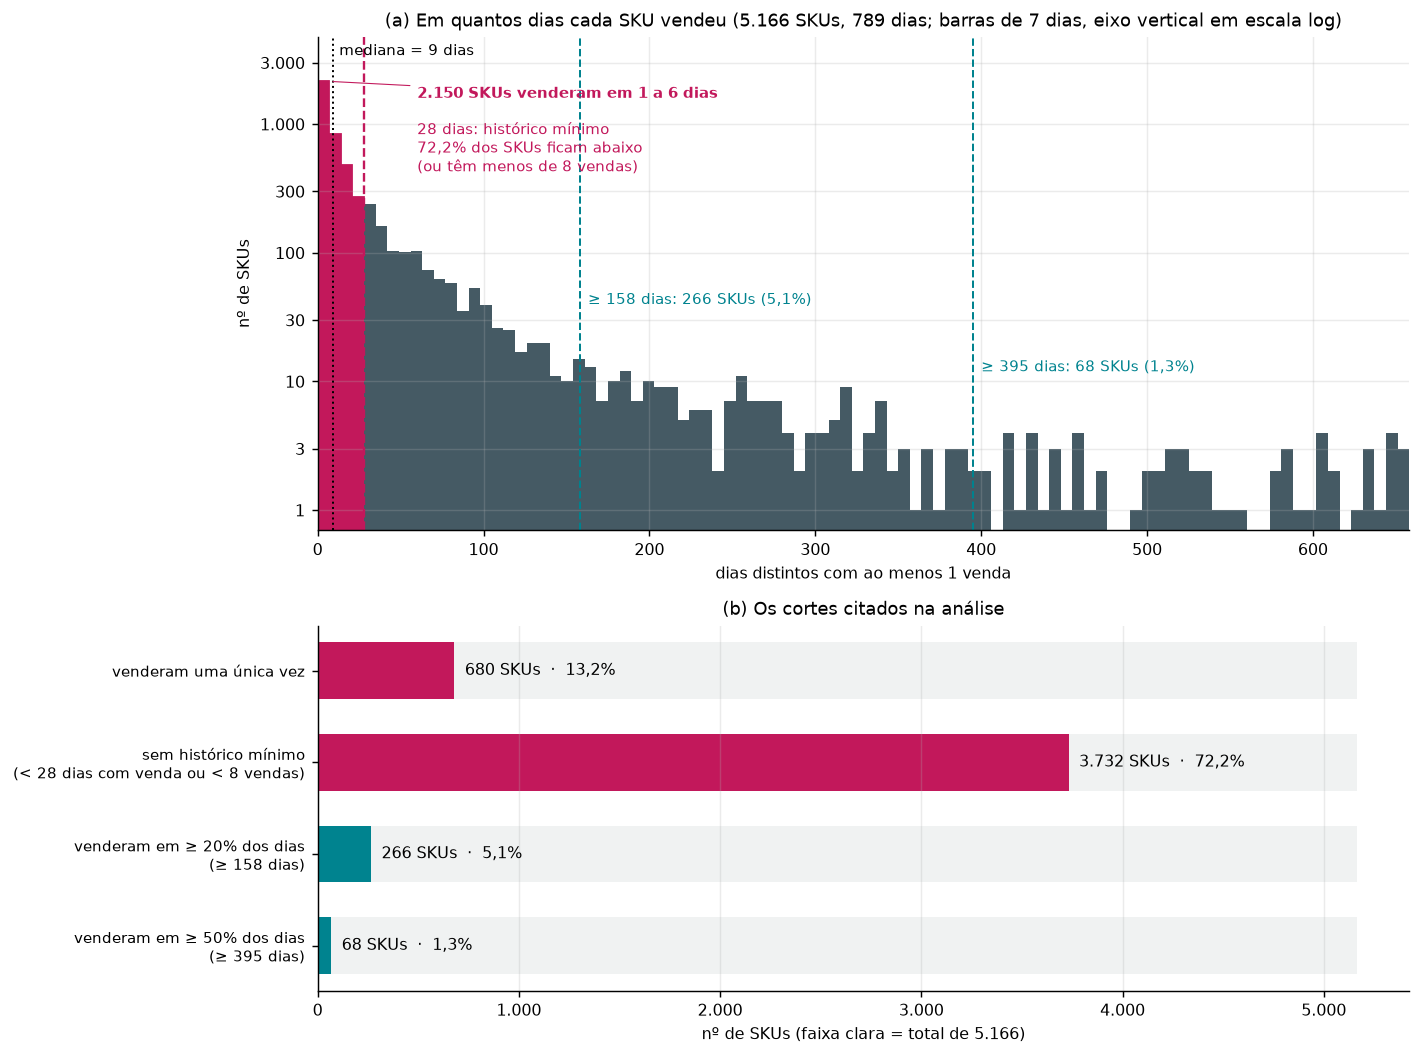
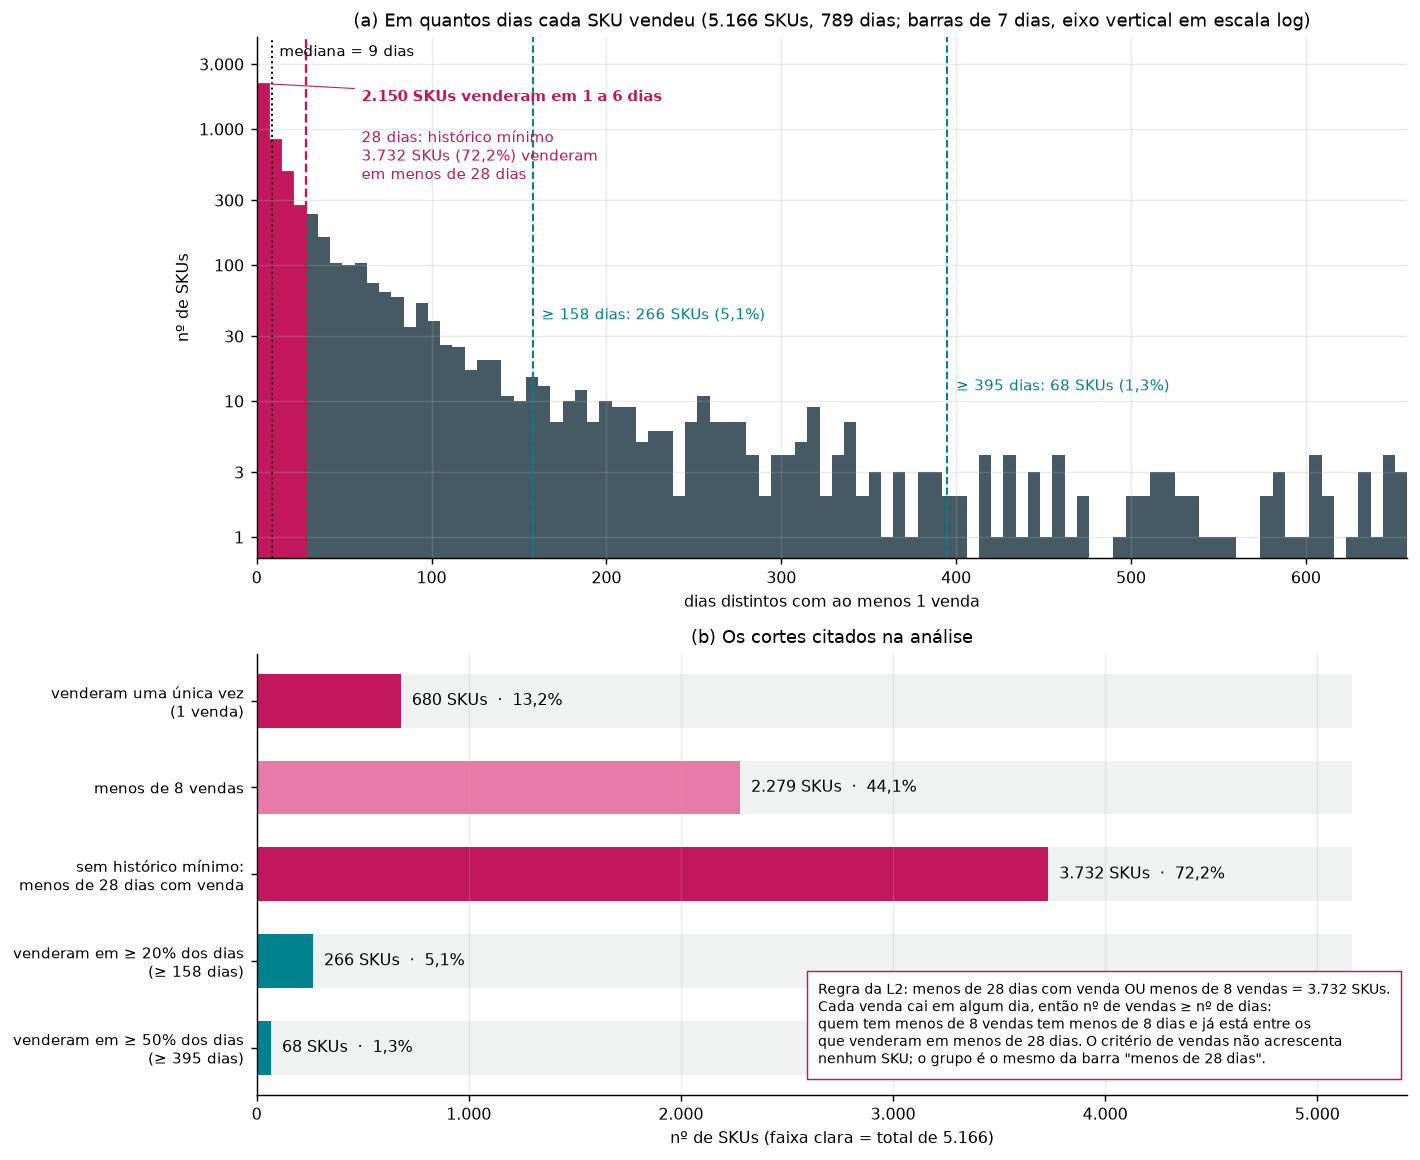
fix: plots dos skus EDA

diff --git a/ia-predictor/training_scripts/eda/eda_source.py b/ia-predictor/training_scripts/eda/eda_source.py
@@ -267,15 +267,21 @@ def _grafico_esparsidade(df: pd.DataFrame, plt) -> str:
     span = (df["data"].max() - df["data"].min()).days + 1
     mediana = float(dias.median())
     d20, d50 = int(np.ceil(.2 * span)), int(np.ceil(.5 * span))
+    # Regra da L2: < 28 dias com venda OU < 8 vendas. Como nº de vendas ≥ nº de dias, quem tem
+    # < 8 vendas já tem < 8 dias; o grupo é o mesmo de "< 28 dias". O painel (a) mostra só
+    # dias; o critério de vendas fica no painel (b), com a explicação.
+    sem_hist = int(((dias < 28) | (n_vendas < 8)).sum())
+    assert sem_hist == int((dias < 28).sum())
     cortes = [
-        ("venderam uma única vez", int((n_vendas == 1).sum())),
-        ("sem histórico mínimo\n(< 28 dias com venda ou < 8 vendas)", int(((dias < 28) | (n_vendas < 8)).sum())),
-        (f"venderam em ≥ 20% dos dias\n(≥ {d20} dias)", int((dias >= d20).sum())),
-        (f"venderam em ≥ 50% dos dias\n(≥ {d50} dias)", int((dias >= d50).sum())),
+        ("venderam uma única vez\n(1 venda)", int((n_vendas == 1).sum()), "#C2185B"),
+        ("menos de 8 vendas", int((n_vendas < 8).sum()), "#E57BA6"),
+        ("sem histórico mínimo:\nmenos de 28 dias com venda", sem_hist, "#C2185B"),
+        (f"venderam em ≥ 20% dos dias\n(≥ {d20} dias)", int((dias >= d20).sum()), "#00838F"),
+        (f"venderam em ≥ 50% dos dias\n(≥ {d50} dias)", int((dias >= d50).sum()), "#00838F"),
     ]
     fmt_n = FuncFormatter(lambda v, _: f"{v:,.0f}".replace(",", "."))
 
-    fig, (ax, axb) = plt.subplots(2, 1, figsize=(11, 8.2), gridspec_kw={"height_ratios": [1.35, 1]})
+    fig, (ax, axb) = plt.subplots(2, 1, figsize=(11, 9), gridspec_kw={"height_ratios": [1.3, 1.1]})
 
     # (a) histograma em faixas de 7 dias (o corte de 28 cai na borda de uma faixa),
     # eixo log com rótulos em número real
@@ -295,9 +301,9 @@ def _grafico_esparsidade(df: pd.DataFrame, plt) -> str:
     ax.axvline(mediana, color="#000", lw=1.1, ls=":")
     ax.text(mediana + 4, cont.max() * 1.6, f"mediana = {mediana:.0f} dias", fontsize=8.5)
     ax.axvline(28, color="#C2185B", lw=1.3, ls="--")
-    ax.text(60, cont.max() * .2, f"28 dias: histórico mínimo\n{_pct(cortes[1][1] / n * 100)} dos SKUs "
-            f"ficam abaixo\n(ou têm menos de 8 vendas)", fontsize=8.5, color="#C2185B")
-    for d, (rot, k), y in ((d20, cortes[2], 40), (d50, cortes[3], 12)):
+    ax.text(60, cont.max() * .2, f"28 dias: histórico mínimo\n{fmt_n(sem_hist, None)} SKUs "
+            f"({_pct(sem_hist / n * 100)}) venderam\nem menos de 28 dias", fontsize=8.5, color="#C2185B")
+    for d, (rot, k, _), y in ((d20, cortes[3], 40), (d50, cortes[4], 12)):
         ax.axvline(d, color="#00838F", lw=1.1, ls="--")
         ax.text(d + 5, y, f"≥ {d} dias: {k} SKUs ({_pct(k / n * 100)})", fontsize=8.5, color="#00838F")
     ax.set_xlim(0, bordas[-1])
@@ -308,13 +314,20 @@ def _grafico_esparsidade(df: pd.DataFrame, plt) -> str:
 
     # (b) os cortes da análise em barras, com contagem e % do total
     y = np.arange(len(cortes))[::-1]
-    cores = ["#C2185B", "#C2185B", "#00838F", "#00838F"]
     ax2 = axb
-    ax2.barh(y, [k for _, k in cortes], color=cores, height=.62)
+    ax2.barh(y, [k for _, k, _ in cortes], color=[c for _, _, c in cortes], height=.62)
     ax2.barh(y, [n] * len(cortes), color="#455A64", alpha=.08, height=.62, zorder=0)
-    for yi, (_, k) in zip(y, cortes):
+    for yi, (_, k, _) in zip(y, cortes):
         ax2.text(k + n * .01, yi, f"{fmt_n(k, None)} SKUs  ·  {_pct(k / n * 100)}", va="center", fontsize=9)
-    ax2.set_yticks(y, [r for r, _ in cortes], fontsize=8.5)
+    ax2.text(.985, .06,
+             f"Regra da L2: menos de 28 dias com venda OU menos de 8 vendas = {fmt_n(sem_hist, None)} SKUs.\n"
+             "Cada venda cai em algum dia, então nº de vendas ≥ nº de dias:\n"
+             "quem tem menos de 8 vendas tem menos de 8 dias e já está entre os\n"
+             "que venderam em menos de 28 dias. O critério de vendas não acrescenta\n"
+             "nenhum SKU; o grupo é o mesmo da barra \"menos de 28 dias\".",
+             transform=ax2.transAxes, ha="right", va="bottom", multialignment="left", fontsize=8,
+             bbox={"facecolor": "white", "edgecolor": "#C2185B", "lw": .8, "pad": 6})
+    ax2.set_yticks(y, [r for r, _, _ in cortes], fontsize=8.5)
     ax2.xaxis.set_major_formatter(fmt_n)
     ax2.set_xlim(0, n * 1.05)
     ax2.set_xlabel(f"nº de SKUs (faixa clara = total de {fmt_n(n, None)})")

diff --git a/docs/prediction/eda-explicada/000 - Mapa completo das analises exploratorias.md b/docs/prediction/eda-explicada/000 - Mapa completo das analises exploratorias.md
@@ -413,10 +413,21 @@ produto típico é "cheia de zeros".
 - Só 1,3% dos produtos vendem em metade dos dias ou mais, e 5,1% vendem em 20% dos dias
   ou mais.
 - 13,2% venderam uma única vez.
-- **72,2%** cairiam no rateio da categoria (menos de 28 dias com venda ou menos de 8
-  vendas).
+- **72,2%** (3.732 produtos) cairiam no rateio da categoria: venderam em menos de 28 dias.
 
 Gráfico: [03](../../../ia-predictor/training_scripts/results/plots/eda/03_esparsidade_dias_ativos_sku.png).
+O painel de cima mostra só os dias com venda; o de baixo, os cortes em número de produtos.
+
+> **Por que "ou menos de 8 vendas" não muda o número.** A regra de rateio está escrita como
+> "menos de 28 dias com venda **ou** menos de 8 vendas". *Dias com venda* conta datas
+> distintas; *vendas* conta linhas de venda, e um produto pode vender várias vezes no mesmo
+> dia (há um com 16 vendas em 4 dias). Mas cada venda cai em algum dia, então vendas ≥ dias
+> sempre. Quem tem menos de 8 vendas tem menos de 8 dias e já está entre os que venderam em
+> menos de 28 dias; o inverso não vale. Por isso a regra separa os mesmos 3.732 produtos que
+> "menos de 28 dias" sozinho, e os 2.279 com menos de 8 vendas (44,1%) estão todos dentro
+> desse grupo. Atenção: o `CLAUDE.md` (limiares) e a constituição escrevem o mínimo como
+> "≥ 28 dias **ou** ≥ 8 vendas", cuja negação é "< 28 dias **e** < 8 vendas" (2.279
+> produtos). As duas formas precisam ser unificadas antes de implementar a L2.
 
 **Pseudocódigo** (`bloco_esparsidade_sku`):
 
